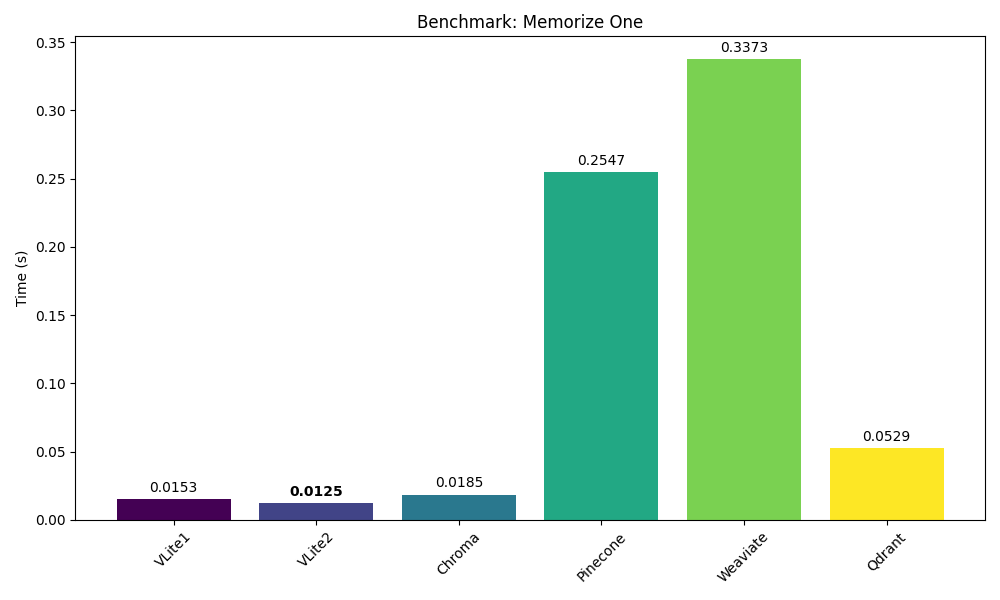
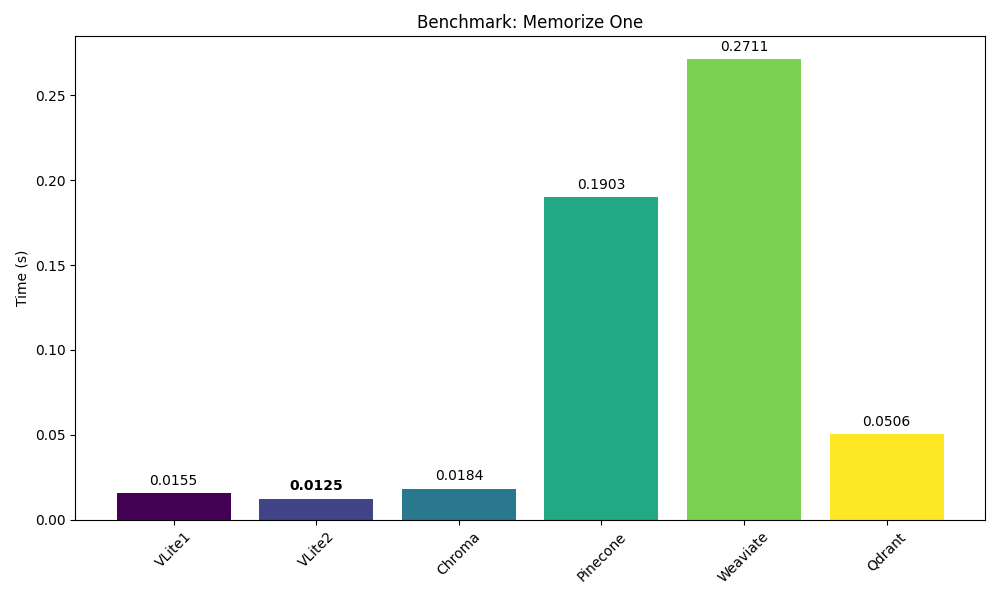
redo chroma test

diff --git a/qdrant_test.py b/qdrant_test.py
@@ -18,9 +18,9 @@ def memorize_one_q(q):
     )
 
 def remember_q(q, text):
-    text_embeddings = SentenceTransformer('all-MiniLM-L6-v2').encode(text).tolist()
+    vectors = SentenceTransformer('all-MiniLM-L6-v2').encode(text).tolist()
     search_result = q.search(
-        collection_name="test_collection", query_vector=text_embeddings
+        collection_name="test_collection", query_vector=vectors
     )
 
 def memorize_many_q(q):

diff --git a/pinecone_test.py b/pinecone_test.py
@@ -18,10 +18,10 @@ def memorize_one_pc(index):
     ])
 
 def remember_pc(index, text):
-    text = SentenceTransformer('all-MiniLM-L6-v2').encode(text).tolist()
+    vector = SentenceTransformer('all-MiniLM-L6-v2').encode(text).tolist()
     query_response = index.query(
         namespace="ns0",
-        vector=text,
+        vector=vector,
         top_k=10
     )
 

diff --git a/chroma_test.py b/chroma_test.py
@@ -19,7 +19,7 @@ def memorize_one_cdb(cdb):
 
 def remember_cdb(cdb, text):
     results = cdb.query(
-        query_texts=[text],
+        query_embeddings=default_ef(text),
     )
 
 def memorize_many_cdb(cdb):

diff --git a/vlite2_test.py b/vlite2_test.py
@@ -16,7 +16,6 @@ def remember_v2(v, text):
 def memorize_many_v2(v):
     v.ingest(text=LONG_DATA)
 
-
 if __name__ == "__main__":
     start_time = time.time()
 
